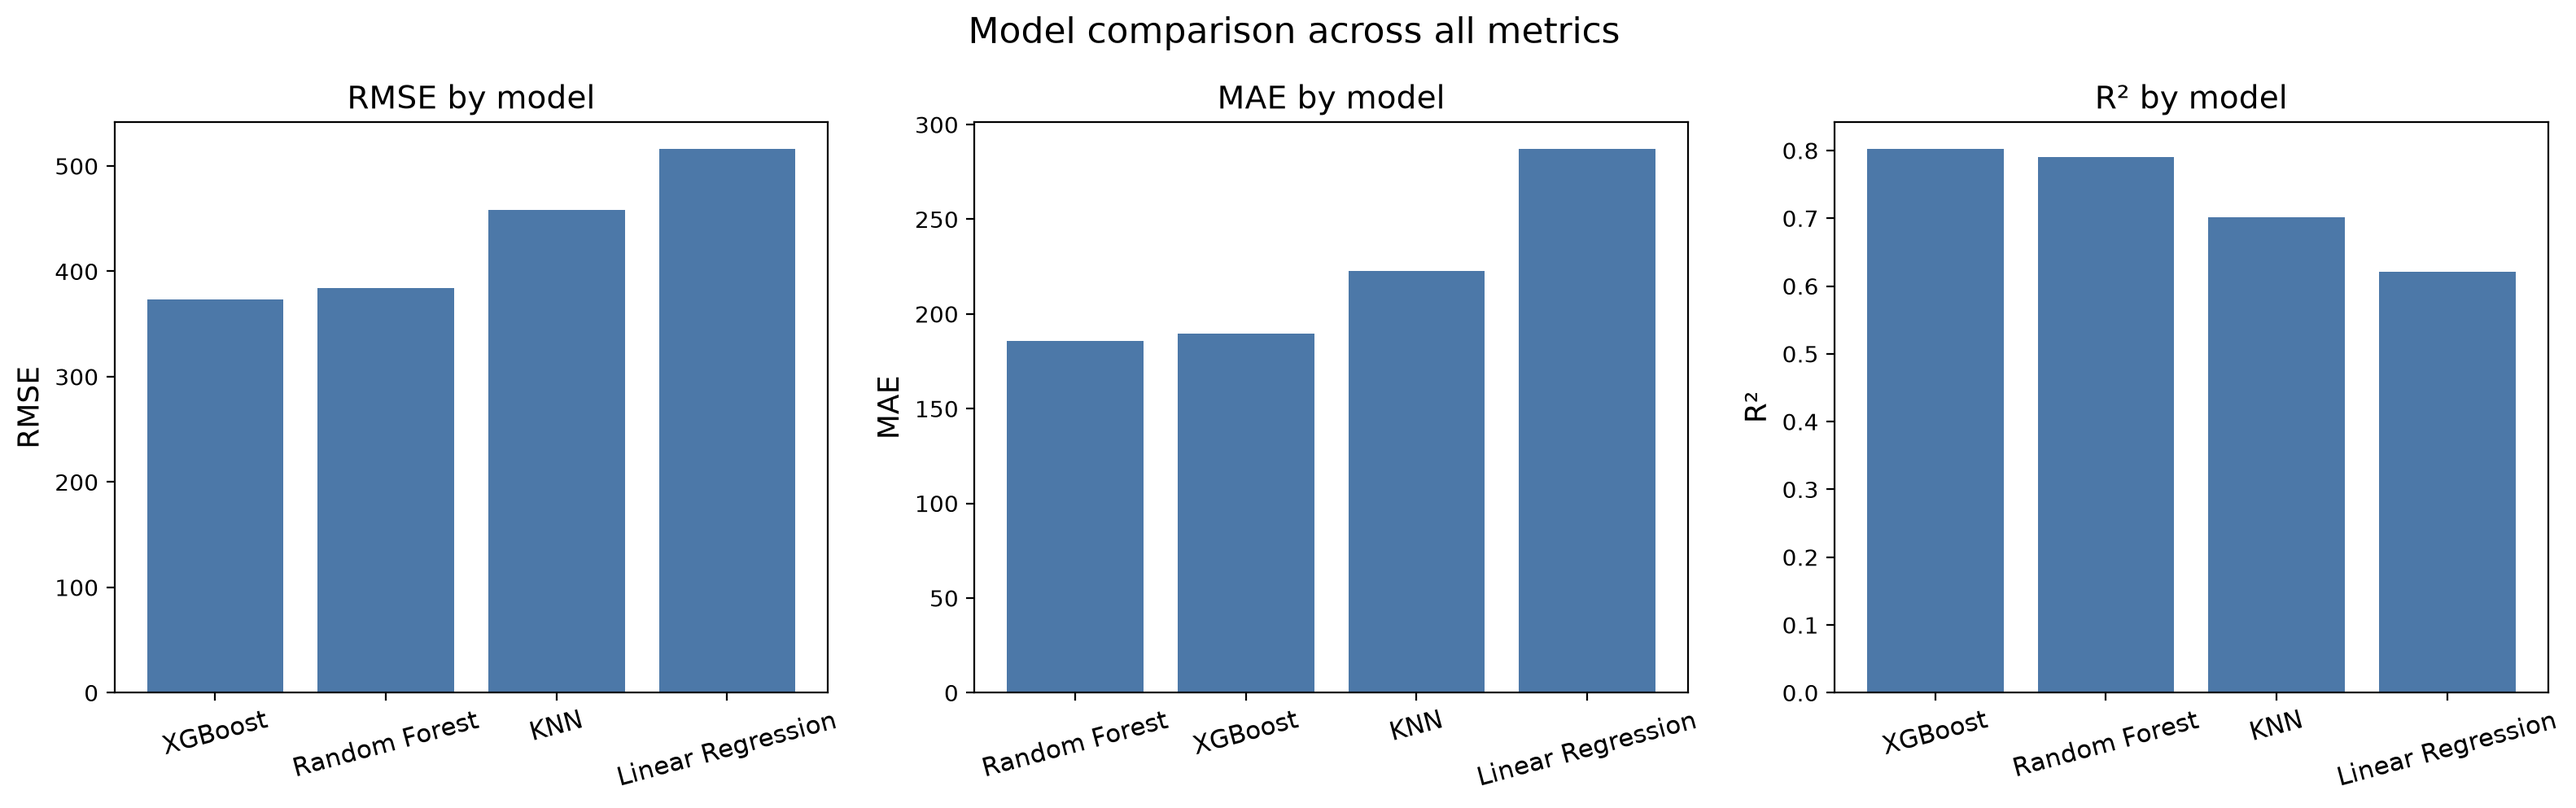
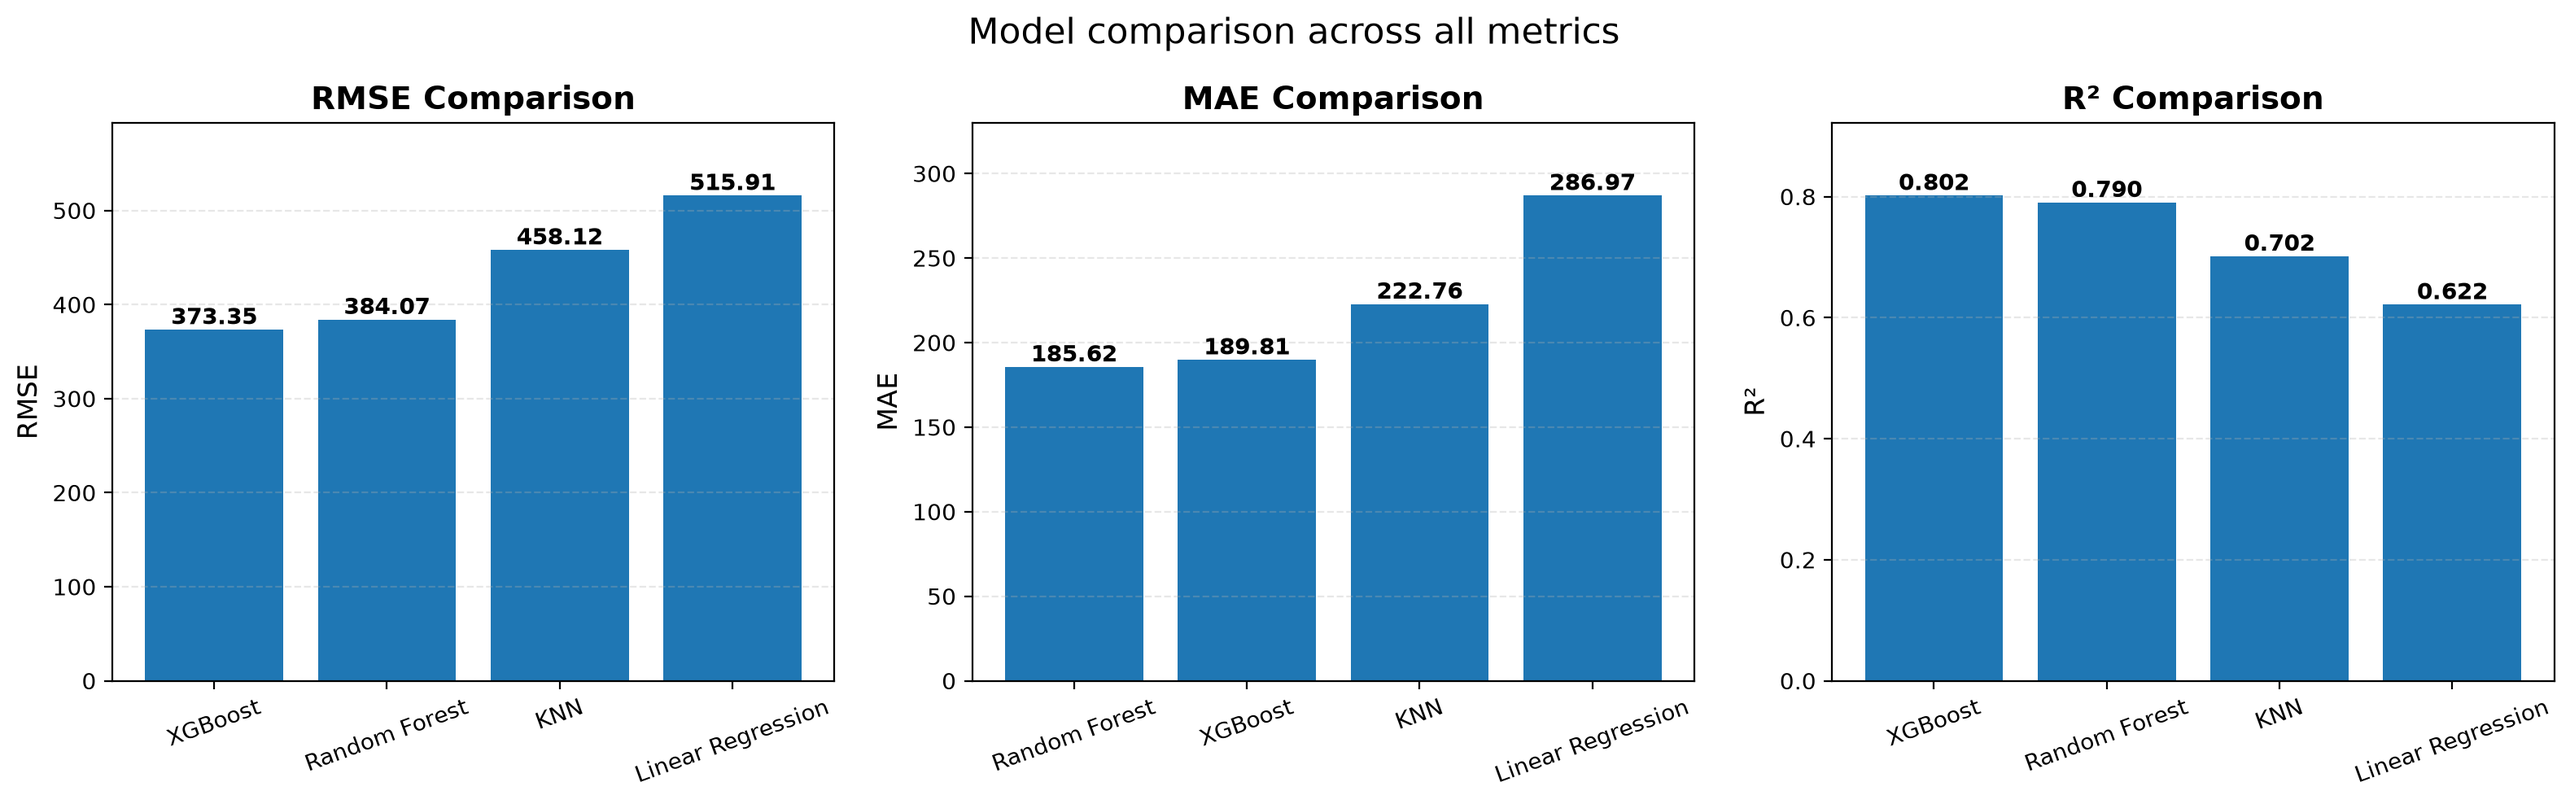
feat: update model comparison show val

diff --git a/src/modelling.py b/src/modelling.py
@@ -190,22 +190,77 @@ def build_comparison_table(results: dict) -> pd.DataFrame:
     return pd.DataFrame(rows).sort_values("rmse").reset_index(drop=True)
 
 
-def plot_metric_comparison(comparison_df: pd.DataFrame, metric: str = "rmse", ax=None):
-    """Bar chart of one metric across all models, sorted best-to-worst.
-
-    Returns the Axes rather than showing the plot directly, so the caller
-    decides what to do with it: fig.savefig() for the report, st.pyplot()
-    in Streamlit, or combine several into one multi-panel figure.
+def plot_metric_comparison(
+    comparison_df: pd.DataFrame,
+    metric: str = "rmse",
+    ax=None
+):
     """
-    ascending = metric != "r2"  # lower is better for rmse/mae, higher is better for r2
-    ordered = comparison_df.sort_values(metric, ascending=ascending)
+    Plot a bar chart for one regression metric.
+
+    RMSE and MAE: lower is better.
+    R²: higher is better.
+    """
+
+    if metric not in ["rmse", "mae", "r2"]:
+        raise ValueError("metric must be 'rmse', 'mae', or 'r2'")
+
+    ascending = metric != "r2"
+    ordered = comparison_df.sort_values(
+        metric,
+        ascending=ascending
+    )
 
     if ax is None:
         _, ax = plt.subplots(figsize=(7, 5))
 
-    ax.bar(ordered["model"], ordered[metric], color="#4C78A8")
-    label = "R\u00b2" if metric == "r2" else metric.upper()
-    ax.set_ylabel(label, fontsize=13)
-    ax.set_title(f"{label} by model", fontsize=14)
-    ax.tick_params(axis="x", labelsize=11, rotation=15)
+    bars = ax.bar(
+        ordered["model"],
+        ordered[metric]
+    )
+
+    label = "R²" if metric == "r2" else metric.upper()
+
+    ax.set_ylabel(label, fontsize=12)
+    ax.set_title(
+        f"{label} Comparison",
+        fontsize=14,
+        fontweight="bold"
+    )
+
+    ax.tick_params(
+        axis="x",
+        labelsize=10,
+        rotation=20
+    )
+
+    # Add values above bars
+    for bar, value in zip(bars, ordered[metric]):
+        if metric == "r2":
+            text = f"{value:.3f}"
+        else:
+            text = f"{value:.2f}"
+
+        ax.text(
+            bar.get_x() + bar.get_width() / 2,
+            bar.get_height(),
+            text,
+            ha="center",
+            va="bottom",
+            fontsize=10,
+            fontweight="bold"
+        )
+
+    # Give labels some space above bars
+    ymax = ordered[metric].max()
+
+    if ymax > 0:
+        ax.set_ylim(0, ymax * 1.15)
+
+    ax.grid(
+        axis="y",
+        linestyle="--",
+        alpha=0.3
+    )
+
     return ax
